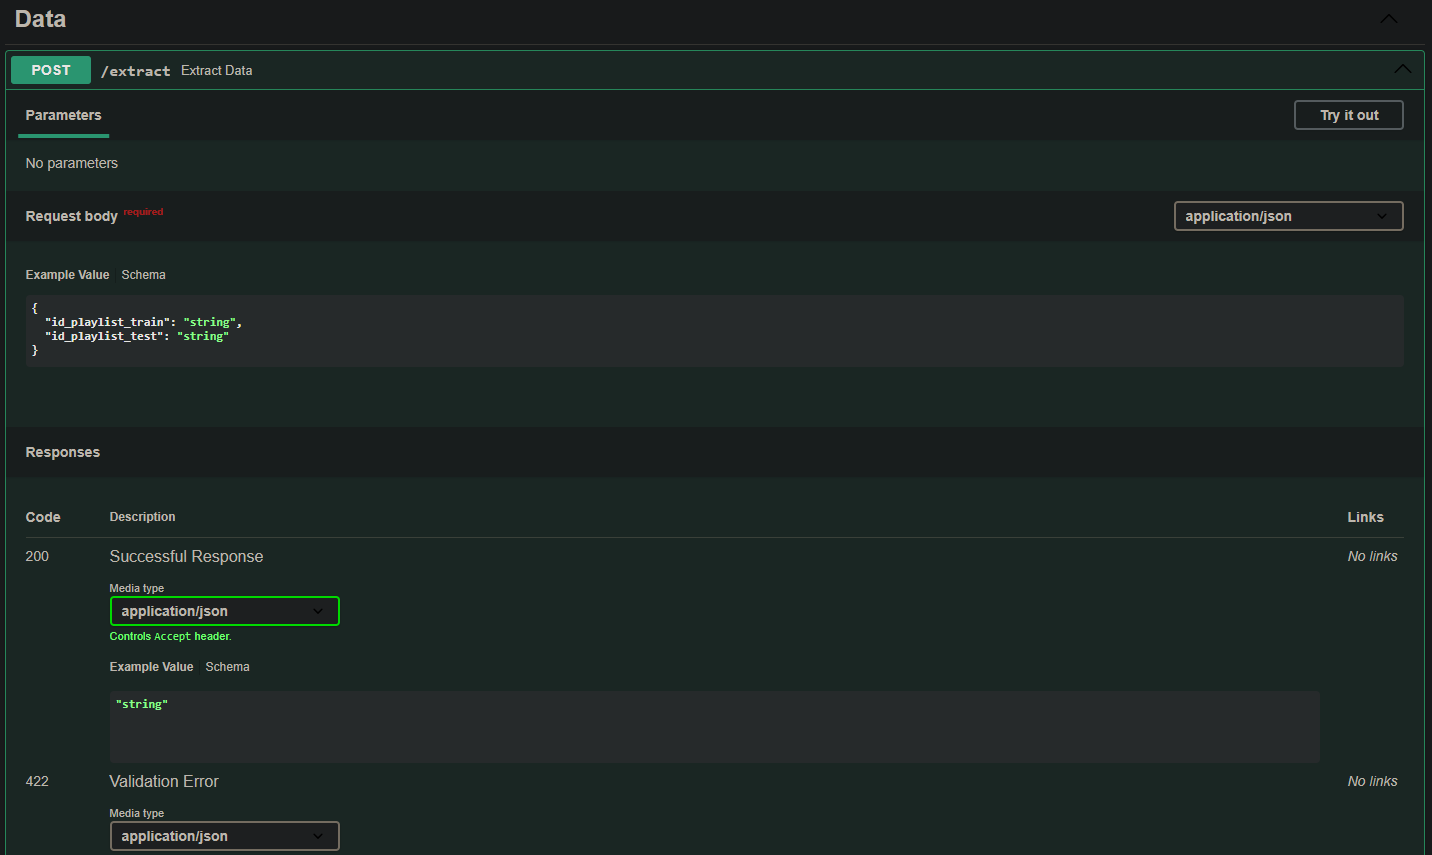
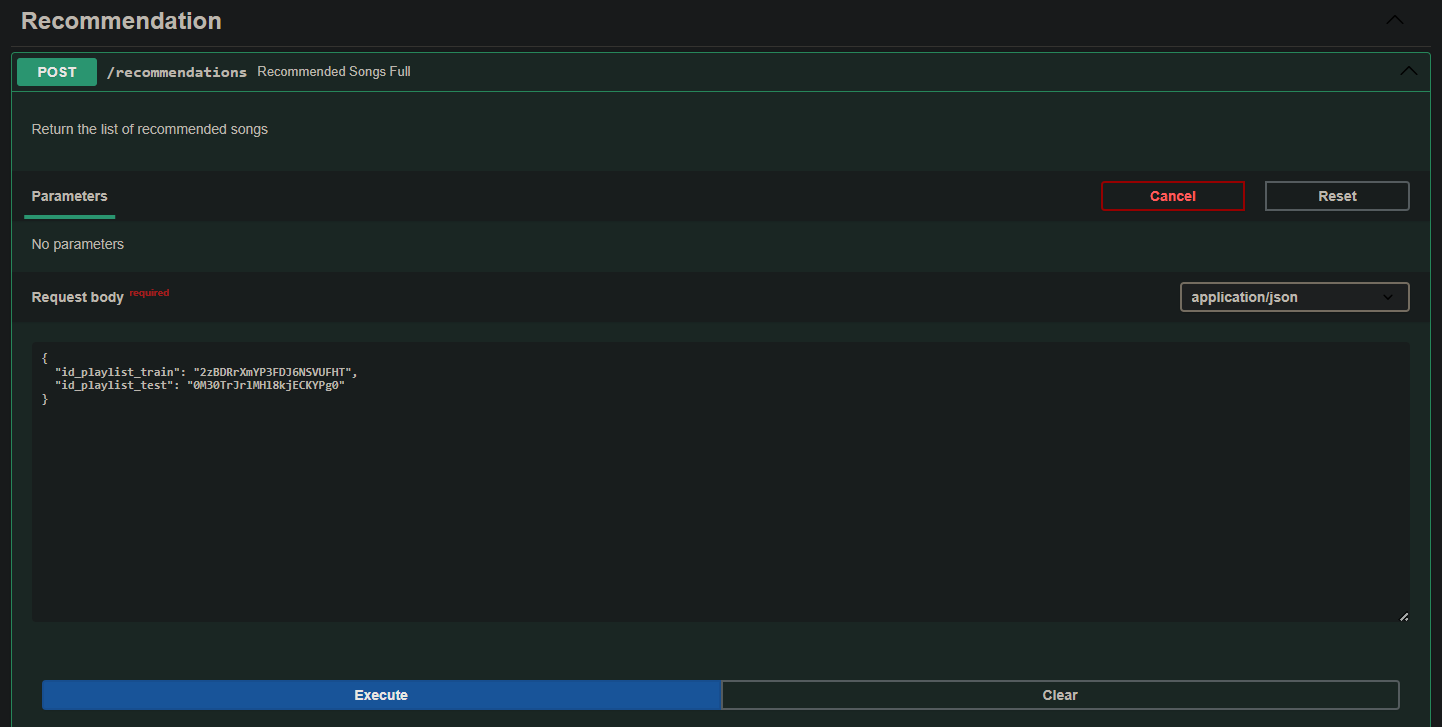
API Update after review

diff --git a/src/api/main.py b/src/api/main.py
@@ -80,7 +80,7 @@ def _index(request: Request):
         "message": HTTPStatus.OK.phrase,
         "status-code": HTTPStatus.OK,
         "data": {"message": "Welcome to MusicExpress! Please, read the `/docs` if you want to use our system!"},  # noqa:E501
-        "authors": ['Rinaldi Ivan', 'Sibilla Antonio', 'de Benedictis Salvatore (Spiderman)', 'Laraspata Lucrezia'],  # noqa:E501
+        "authors": ['Rinaldi Ivan', 'Sibilla Antonio', 'de Benedictis Salvatore', 'Laraspata Lucrezia'],  # noqa:E501
     }
 
     return response
@@ -108,15 +108,19 @@ def _extract_data(request: Request, user_payload: UserPlaylistPayload):
 
     return response
 
-
-@app.post('/preprocess', tags=["Preprocessing"])
+@app.post("/recommendation", tags=["Recommendation"])
 @construct_response
-def _preprocess_data(request: Request, user_payload: UserPlaylistPayload):
+def _recommended_songs(request: Request, user_payload: UserPlaylistPayload):
+    """Return the list of recommended songs"""
+
+    processed_train_dir = PRO_DIR + "trainSet.csv"
+    processed_test_dir = PRO_DIR + "testSet.csv"
+    cluster_train_dir = OUT_DIR + "clustertrainSet.csv"
+    cluster_test_dir = OUT_DIR + "clustertestSet.csv"
 
     if (user_payload is None or ((user_payload.id_playlist_train == '') and (user_payload.id_playlist_test == ''))):  # noqa:E501
-        result = preprocess(raw_train_data=DEFAULT_TRAIN_DATA,
-                            raw_test_data=DEFAULT_TEST_DATA,
-                            dir_to_store_data=PRO_DIR)
+        preprocess(raw_train_data=DEFAULT_TRAIN_DATA, 
+                   raw_test_data=DEFAULT_TEST_DATA, dir_to_store_data=PRO_DIR)
     else:
         user_playlists = [user_payload.id_playlist_train,
                           user_payload.id_playlist_test]
@@ -124,56 +128,13 @@ def _preprocess_data(request: Request, user_payload: UserPlaylistPayload):
         tmp_dir_train = PREPRO_DIR + spUt.get_playlist_name(user_playlists[0]) + ".csv"  # noqa:E501
         tmp_dir_test = PREPRO_DIR + spUt.get_playlist_name(user_playlists[1]) + ".csv"   # noqa:E501
 
-        result = preprocess(tmp_dir_train, tmp_dir_test,
-                            dir_to_store_data=PRO_DIR)
+        preprocess(tmp_dir_train, tmp_dir_test, dir_to_store_data=PRO_DIR)
+        
+    clustering(processed_train_dir, processed_test_dir, dir_to_store_data=OUT_DIR, 
+               dir_to_store_model=STORE_MODEL_DIR)
 
-    if result:
-
-        response = {
-            "message": HTTPStatus.OK.phrase,
-            "status-code": HTTPStatus.OK,
-            "data": 'Preprocessing completed!'
-        }
-
-        return response
-
-    raise HTTPException(status_code=404, detail='Error: can\'t preprocess the data!')   # noqa:E501
-
-
-@app.post('/cluster', tags=["Clustering"])
-@construct_response
-def _cluster_data(request: Request):
-
-    tmp_dir_train = PRO_DIR + "trainSet.csv"
-    tmp_dir_test = PRO_DIR + "testSet.csv"
-
-    result = clustering(tmp_dir_train, tmp_dir_test,
-                        dir_to_store_data=OUT_DIR,
-                        dir_to_store_model=STORE_MODEL_DIR)
-
-    if result:
-
-        response = {
-            "message": HTTPStatus.OK.phrase,
-            "status-code": HTTPStatus.OK,
-            "data": 'Clustering completed!'
-        }
-
-        return response
-
-    raise HTTPException(status_code=404, detail='Error: can\'t clusterize the data!')   # noqa:E501
-
-
-@app.get("/recommendation", tags=["Recommendation"])
-@construct_response
-def _recommended_songs(request: Request):
-    """Return the list of recommended songs"""
-
-    tmp_dir_train = OUT_DIR + "clustertrainSet.csv"
-    tmp_dir_test = OUT_DIR + "clustertestSet.csv"
-
-    target_song, recommended_songs = recommend(clustered_train_data=tmp_dir_train,   # noqa:E501
-                                               clustered_test_data=tmp_dir_test,   # noqa:E501
+    target_song, recommended_songs = recommend(clustered_train_data=cluster_train_dir,   # noqa:E501
+                                               clustered_test_data=cluster_test_dir,   # noqa:E501
                                                dir_to_store_recommendation=PRO_DIR)   # noqa:E501
     if len(target_song) > 0:
 
@@ -187,5 +148,6 @@ def _recommended_songs(request: Request):
         return response
 
     raise HTTPException(status_code=404, detail='We are sorry, our system was not able to provide any recommendations.')   # noqa:E501
+
 
 # pylint: enable=line-too-long,anomalous-backslash-in-string,unused-argument

diff --git a/src/api/README.md b/src/api/README.md
@@ -9,8 +9,6 @@ To produce the API for our system we used:
 FastAPI is employed in the [main](../main.py) in which, after initializing the FastAPI framework, we create endpoints for our system functionalities, such as:
 
 - data extraction,
-- preprocessing,
-- clustering,
 - music recommendations.
 
 Running the command:
